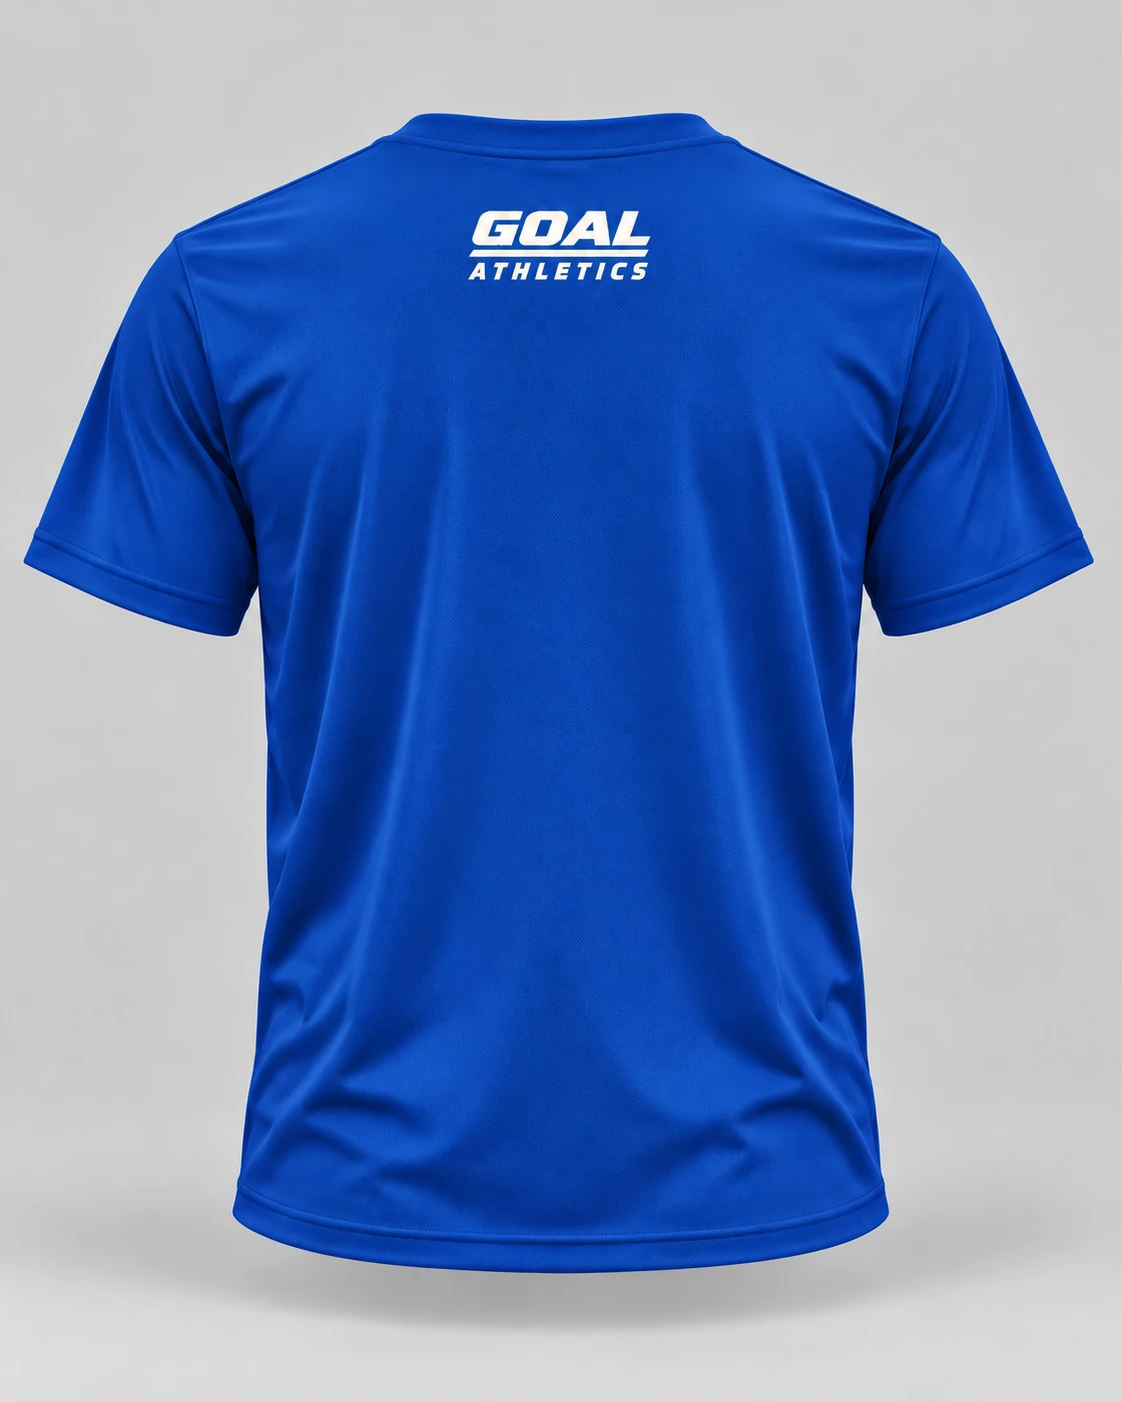
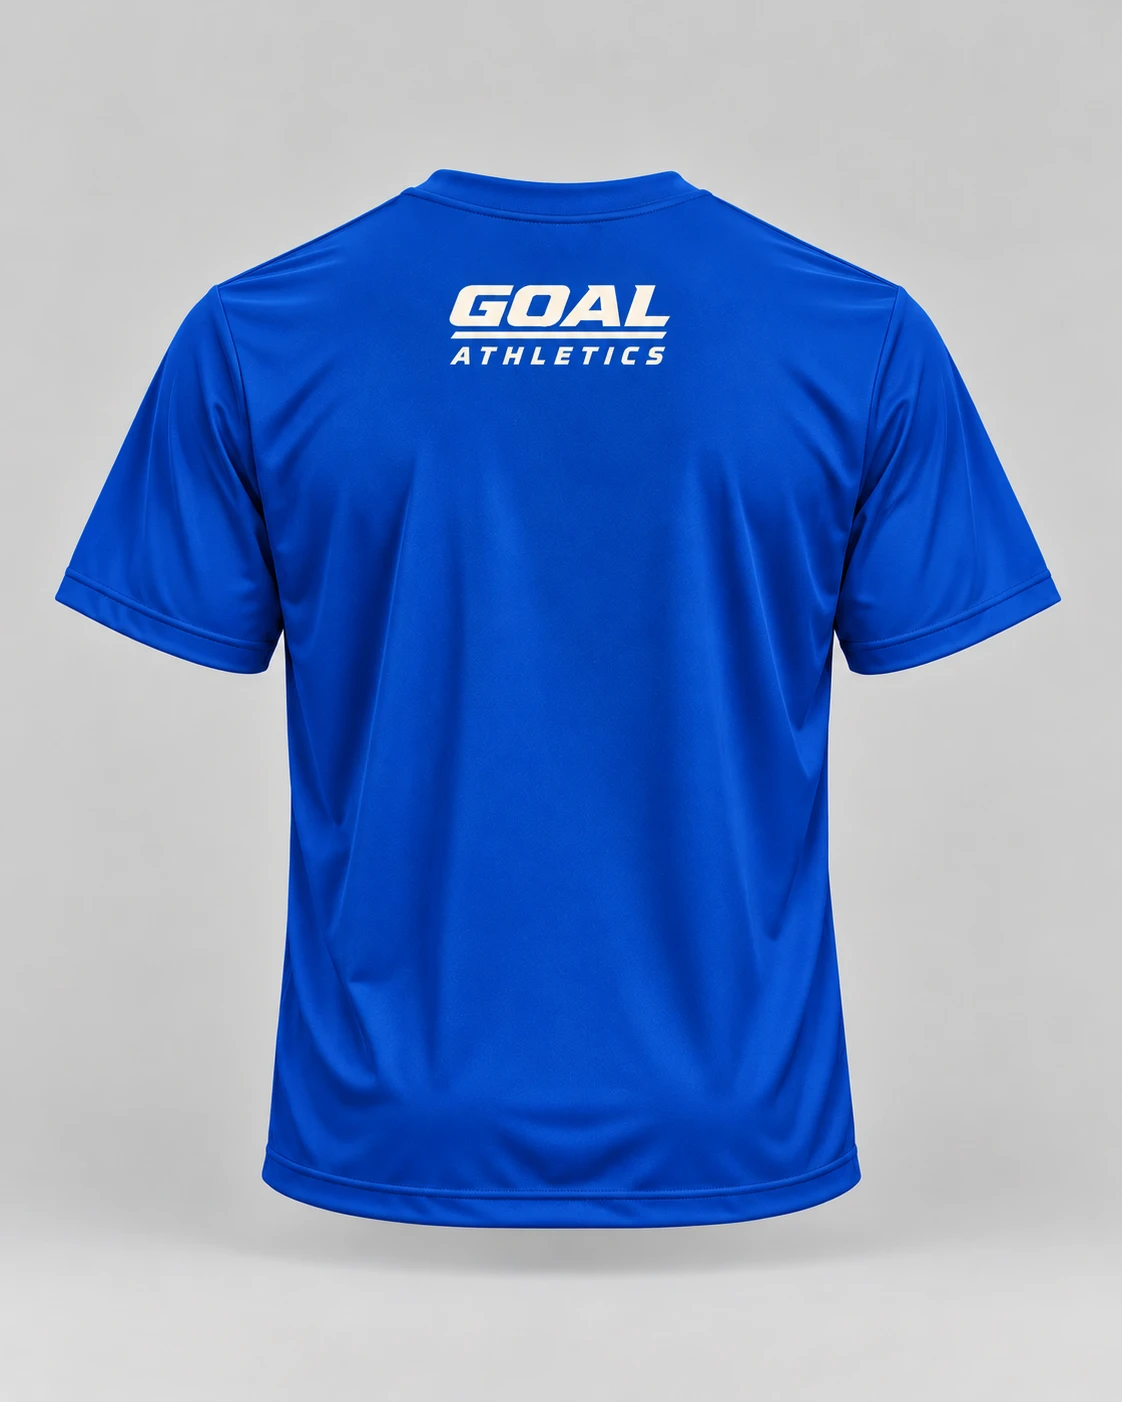
Replace the True Royal GA Minimal Tee product back again
Owner instruction on 2026-10-22, after the white-lettered back had gone
live: it gives way to a cream-lettered 1122 x 1402 shot on the same soft
grey backdrop, framed the same way (backdrop extended 140/141 px above
and below to 2:3, joins 0.10 and 0.00). The white-lettered original is
kept in the designs record as SUPERSEDED beside the first cream one;
checksums updated in docs/catalog/
ga-minimal-tee-true-royal-product-20261022.json.

The path is reused and had been published, so its revision tag in
product-image.ts moves on to true-royal-back-v3-20261022.

Verified: tsc clean; on a fresh dev server the tagged URL serves the new
source (the optimizer output's lettering band matches it, not the
previous file) and the gallery's second view decodes it.

Claude-Session: https://claude.ai/code/session_01C3SU2v6BEZ4vVY2to31FRS

Changed region(s): [[0.0, 0.0613, 0.967, 0.9508], [0.4991, 0.5827, 0.5303, 0.6134]]

diff --git a/src/lib/product-image.ts b/src/lib/product-image.ts
@@ -11,11 +11,11 @@ export function catalogImageSrc(src: string): string {
   if (studioPath) url.pathname = studioPath;
   const isRevisedBack = /^\/products\/GOOOL_MODERN_PERFORMANCE_(?:ROYAL_|WHITE_)?BACK_DETAIL_V6\.png$/.test(url.pathname);
   // Minimal Tee product shots replaced at their paths later on 2026-10-22
-  // (the True Royal back for white lettering; the True Royal front, both
-  // Black shots and the True Red back after they had gone live); the tags
-  // keep every image cache from serving the first files.
+  // (the True Royal back twice, the True Royal front, both Black shots and
+  // the True Red back, the later ones after they had gone live); the tags
+  // keep every image cache from serving an earlier file.
   const replaced: Record<string, string> = {
-    "/products/goal-ga-minimal-true-royal-catalog-product-back-20261022.webp": "true-royal-back-white-20261022",
+    "/products/goal-ga-minimal-true-royal-catalog-product-back-20261022.webp": "true-royal-back-v3-20261022",
     "/products/goal-ga-minimal-true-royal-catalog-product-front-20261022.webp": "true-royal-front-v2-20261022",
     "/products/goal-ga-minimal-black-catalog-product-front-20261022.webp": "black-front-v2-20261022",
     "/products/goal-ga-minimal-black-catalog-product-back-20261022.webp": "black-back-v2-20261022",

diff --git a/designs/54_ga-minimal-tee-true-royal-product-shots-2026-10-22/README.md b/designs/54_ga-minimal-tee-true-royal-product-shots-2026-10-22/README.md
@@ -16,7 +16,7 @@ extension.
 | View | Received | Deployed |
 |---|---|---|
 | product-front | 1024 x 1536 | `goal-ga-minimal-true-royal-catalog-product-front-20261022.webp`, 1024 x 1536 (already 2:3, deployed byte-for-byte) |
-| product-back | 1122 x 1402 | `goal-ga-minimal-true-royal-catalog-product-back-20261022.webp`, 1122 x 1683 (joins 0.50 and 0.00) |
+| product-back | 1122 x 1402 | `goal-ga-minimal-true-royal-catalog-product-back-20261022.webp`, 1122 x 1683 (joins 0.10 and 0.00; third back, cream lettering) |
 
 The back was replaced later on 2026-10-22 by owner instruction: the first
 back shot (cream lettering, 737 x 1024, extended to 737 x 1106) gave way to
@@ -26,6 +26,12 @@ the deployed path is unchanged because it had not been published, and
 `src/lib/product-image.ts` tags it with revision `true-royal-back-white-20261022`
 so no image cache (the dev optimizer held the first file even after its
 on-disk cache was cleared) can serve the first file.
+
+The back was replaced a second time, after the white-lettered one had
+gone live: a cream-lettered 1122 x 1402 shot on the same backdrop, framed
+the same way. The white-lettered file is kept as
+`as-received/true-royal-product-back-SUPERSEDED-white-as-received.webp`; the
+revision tag moved on to `true-royal-back-v3-20261022`.
 
 The front was replaced too, after the first set had gone live on
 2026-10-22: the 799 x 1024 shot gave way to a 1024 x 1536 one, already

diff --git a/designs/00_asset-library/MODEL-PHOTO-FRAME-STANDARD.md b/designs/00_asset-library/MODEL-PHOTO-FRAME-STANDARD.md
@@ -86,7 +86,7 @@ photos are uploaded.
 | Stacked Stadium Cap Red · product front | 764 x 510 (landscape) | 600 x 900, sides trimmed to 600, extended 196 px above and below (joins 0.18 and 0.09) |
 | Stacked Stadium Cap Red · model front, three-quarter, side | 764 x 506/510 (landscape) | 480 x 720, sides trimmed to 480, extended 211-218 px above the head (joins 0.0, 0.0, 0.42) |
 | GA Minimal Tee Black · product front, back | 1024 x 1536 (soft grey; both replaced later the same day, the first pair 1200 x 1500 on flat #F2F2F2) | 1024 x 1536 unchanged (already 2:3) |
-| GA Minimal Tee True Royal · product front, back | 1024 x 1536, 1122 x 1402 (soft grey backdrop; both replaced later the same day) | 1024 x 1536 unchanged (already 2:3); 1122 x 1683, backdrop extended above and below (joins 0.50 and 0.00) |
+| GA Minimal Tee True Royal · product front, back | 1024 x 1536, 1122 x 1402 (soft grey backdrop; both replaced later the same day, the back twice) | 1024 x 1536 unchanged (already 2:3); 1122 x 1683, backdrop extended above and below (joins 0.10 and 0.00) |
 | GA Minimal Tee True Red · product front, back | 1122 x 1402 (soft grey backdrop; the back replaced later the same day) | 1122 x 1683, backdrop extended 140/141 px above and below (joins 0.00; 0.00 and 0.03) |
 
 Records: `docs/catalog/ga-minimal-shorts-{shadow,ink-blue,black}-20261022.json`,
